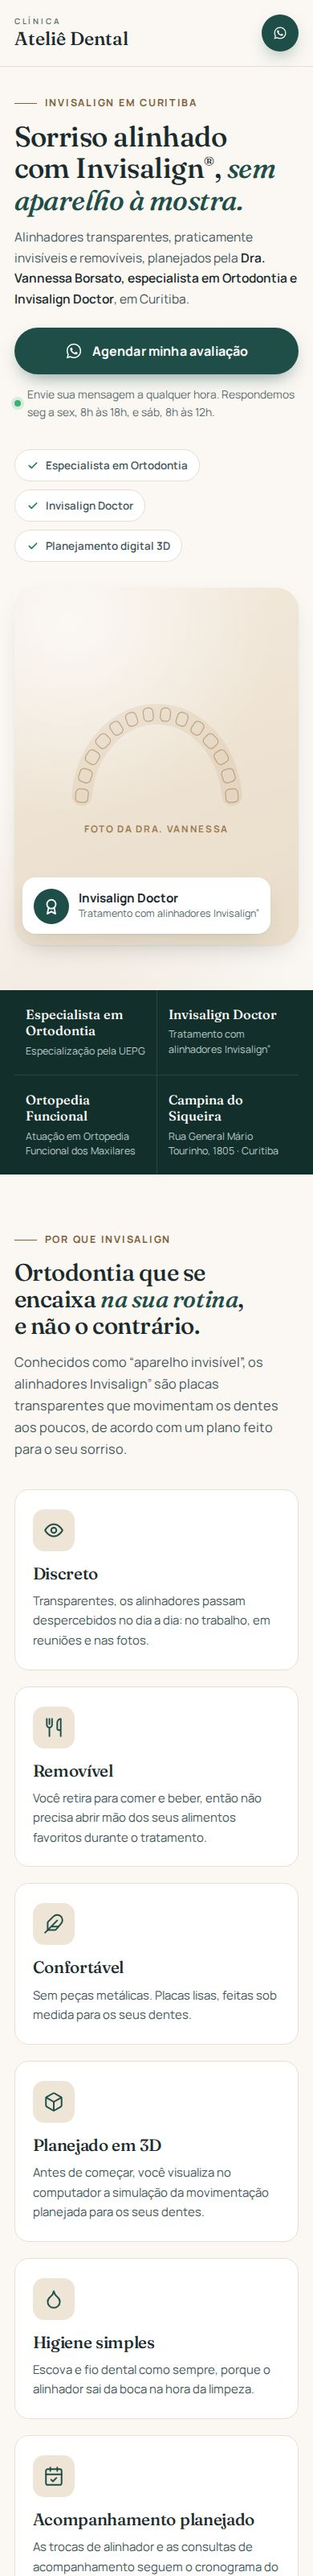
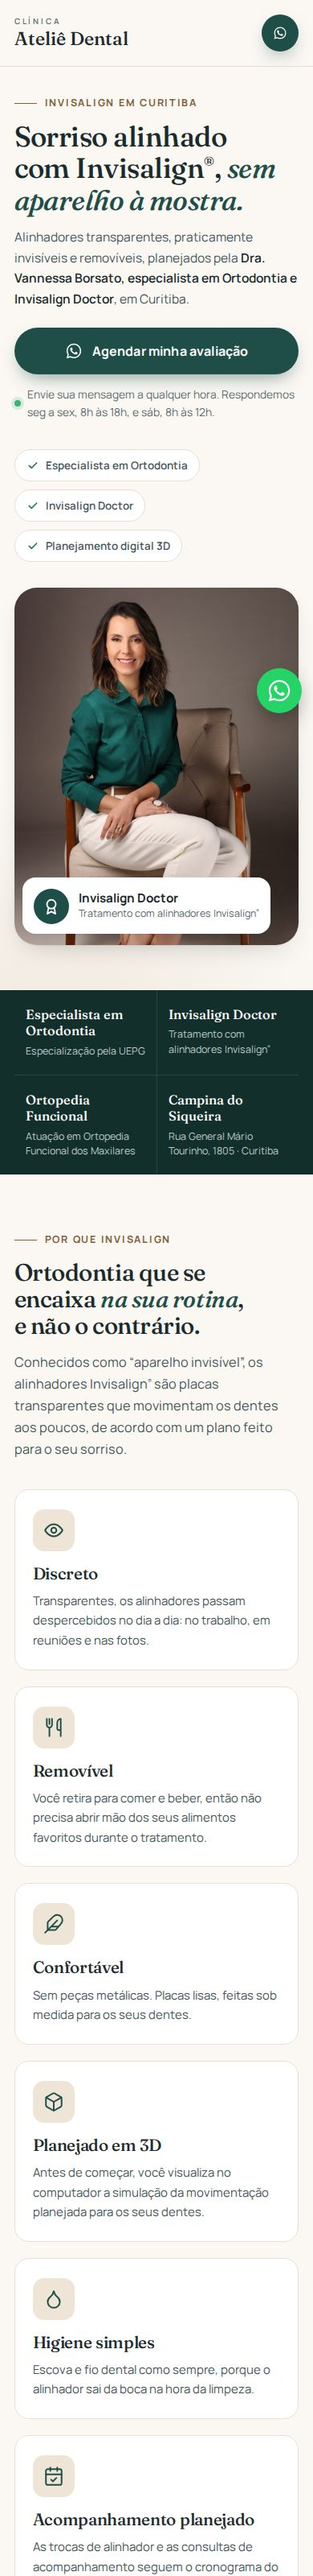
Add doctor photos, floating WhatsApp button and evaluation section
Claude-Session: https://claude.ai/code/session_01U1nEfuHnYZHZHo8qhsU69d

Changed region(s): [[0.0308, 0.2188, 0.9846, 0.375]]

diff --git a/landing-invisalign-vannessa/index.html b/landing-invisalign-vannessa/index.html
@@ -31,8 +31,10 @@ window.LP_CONFIG = {
   fotos: {
     logo: '',        // logo da clínica, PNG/SVG com fundo transparente (versão para fundo claro)
     logoRodape: '',  // logo em versão clara, para o rodapé escuro (opcional)
-    heroDra: '',     // foto principal da Dra. (vertical 4:5, ~1000x1250px)
-    sobreDra: '',    // retrato da Dra. para a seção "Quem é" (vertical 4:5)
+    // ATENÇÃO: os dois caminhos abaixo (imagens/...) servem só para a aprovação do layout.
+    // No Wix, suba os arquivos da pasta "imagens" no Gerenciador de Mídia e cole aqui a URL de cada um.
+    heroDra: 'imagens/dra-vannessa-hero.jpg',       // foto principal (vertical 4:5, 1000x1250px)
+    sobreDra: 'imagens/dra-vannessa-retrato.jpg',   // retrato para a seção "Quem é" (vertical 4:5)
     atendimento: '', // Dra. atendendo / mostrando o alinhador (horizontal 3:2)
     clinica: [       // fotos da clínica (horizontal 3:2). Apague ou acrescente linhas.
       // 'https://static.wixstatic.com/media/...jpg',
@@ -81,7 +83,13 @@ window.LP_CONFIG = {
   // ---------- AJUDA PARA O WIX ----------
   // true = mostra a altura da página no topo do elemento (use no modo Visualizar
   // para acertar a altura do Elemento HTML). Volte para false antes de publicar.
-  mostrarAltura: false
+  mostrarAltura: false,
+
+  // ---------- BOTÃO FLUTUANTE DE WHATSAPP ----------
+  // true = mostra o botão redondo no canto inferior direito da página.
+  // Dentro do Elemento HTML do Wix ele fica fixo no fim do elemento (junto ao rodapé). Para um botão que
+  // acompanha a rolagem no celular, crie também o botão nativo do Wix (LEIA-ME, seção 2, passo 7).
+  botaoFlutuante: true
 };
 </script>
 
@@ -421,6 +429,39 @@ window.LP_CONFIG = {
   .indic .inline-cta{grid-column:1/-1;margin-top:8px}
   .about .hero-ctas{margin-top:30px}
 
+  /* ---------- Botão flutuante ---------- */
+  .wa-float{
+    position:fixed;right:18px;bottom:18px;z-index:50;width:60px;height:60px;border-radius:50%;
+    background:#25D366;color:#fff;display:grid;place-items:center;box-shadow:0 10px 28px -6px rgba(0,0,0,.45);
+    transition:transform .2s;
+  }
+  .wa-float:hover{transform:scale(1.06)}
+  .wa-float svg{width:32px;height:32px}
+  .wa-float[hidden]{display:none}
+  @media (max-width:640px){.wa-float{right:14px;bottom:14px;width:56px;height:56px}}
+
+  /* ---------- Avaliação ---------- */
+  .aval-intro{display:grid;grid-template-columns:1fr 1fr;gap:clamp(28px,5vw,72px);align-items:center;margin-bottom:clamp(36px,5vw,56px)}
+  .aval-intro .section-head{margin-bottom:0}
+  .aval-quote{
+    position:relative;padding:32px 34px;border-radius:var(--radius);background:var(--brand-deep);color:#E8EFEE;
+  }
+  .aval-quote p{font-family:var(--serif);font-size:clamp(1.15rem,1.8vw,1.4rem);line-height:1.45;font-style:italic}
+  .aval-quote footer{margin-top:18px;font-size:.84rem;color:#B9CAC7;font-weight:600;letter-spacing:.02em}
+  .aval-quote::before{content:"“";position:absolute;top:-6px;left:22px;font-family:var(--serif);font-size:5rem;line-height:1;color:#D9BF97;opacity:.55}
+  .aval-list{list-style:none;margin:0;padding:0;display:grid;grid-template-columns:repeat(2,1fr);gap:16px;counter-reset:a}
+  .aval-list li{background:var(--surface);border:1px solid var(--line);border-radius:var(--radius);padding:24px 26px 24px 22px;display:grid;grid-template-columns:auto 1fr;column-gap:16px}
+  .aval-list li::before{counter-increment:a;content:counter(a);width:34px;height:34px;border-radius:50%;background:var(--accent-soft);color:var(--accent-ink);font-family:var(--serif);font-style:italic;font-size:1.05rem;display:grid;place-items:center;margin-top:2px}
+  .aval-list h3{font-size:1.14rem;margin-bottom:6px}
+  .aval-list p{font-size:.94em;color:var(--ink-soft)}
+  .aval-list li.wide{grid-column:1/-1;background:var(--accent-soft);border-color:transparent}
+  .aval-list li.wide::before{background:#fff}
+  .aval-tags{display:flex;flex-wrap:wrap;gap:8px;margin-top:12px}
+  .aval-tags span{font-size:.8rem;font-weight:600;color:var(--ink-soft);background:var(--bg-alt);border-radius:999px;padding:5px 11px}
+  .aval-list li.wide .aval-tags span{background:#fff}
+  @media (max-width:900px){.aval-intro{grid-template-columns:1fr}}
+  @media (max-width:640px){.aval-list{grid-template-columns:1fr}.aval-list li{padding:20px 18px}.aval-quote{padding:28px 22px}}
+
   /* ---------- Animação de entrada ---------- */
   .js .reveal{opacity:0;transform:translateY(18px);transition:opacity .7s ease, transform .7s ease}
   .js .reveal.in{opacity:1;transform:none}
@@ -689,7 +730,7 @@ window.LP_CONFIG = {
       <p>Um processo claro, com cada etapa explicada antes de começar.</p>
     </div>
     <ol class="steps">
-      <li class="step reveal"><h3>Avaliação</h3><p>Conversa sobre o que incomoda no seu sorriso, exame clínico e registros para entender o seu caso.</p></li>
+      <li class="step reveal"><h3>Avaliação</h3><p>Cerca de 1 hora com a Dra.: conversa, exame clínico, escaneamento intraoral, fotografias e diagnóstico do seu caso.</p></li>
       <li class="step reveal"><h3>Planejamento 3D</h3><p>A Dra. planeja o tratamento no software ClinCheck<sup>®</sup> e você vê a simulação da movimentação dos dentes.</p></li>
       <li class="step reveal"><h3>Seus alinhadores</h3><p>Você recebe seus alinhadores sob medida, usa cada um de 20 a 22 horas por dia e troca para o próximo conforme a orientação da Dra.</p></li>
       <li class="step reveal"><h3>Acompanhamento</h3><p>Consultas periódicas para conferir a evolução e fazer ajustes, se necessário.</p></li>
@@ -698,6 +739,39 @@ window.LP_CONFIG = {
     <div class="inline-cta plain reveal">
       <p>Tudo começa pela avaliação com a especialista.</p>
       <a class="btn btn-primary" data-wa="como-funciona" href="https://wa.me/554130726994?text=Ol%C3%A1%20Tenho%20interesse%20em%20saber%20mais%20sobre%20Invisalign.%20*N%C3%83O%20APAGUE%20ESSA%20MENSAGEM%20VOC%C3%8A%20TEM%20PREFER%C3%8ANCIA*" target="_blank" rel="noopener">
+        <svg aria-hidden="true"><use href="#i-wa"/></svg>Agendar minha avaliação
+      </a>
+    </div>
+  </div>
+</section>
+
+<!-- ================= A AVALIAÇÃO ================= -->
+<section class="section" id="avaliacao">
+  <div class="wrap">
+    <div class="aval-intro">
+      <div class="section-head reveal">
+        <span class="eyebrow">A consulta de avaliação</span>
+        <h2>Cerca de 1 hora dedicada ao seu diagnóstico <em>e à sua clareza.</em></h2>
+        <p>A avaliação com a Dra. Vannessa foi pensada para que você não saia apenas com uma indicação de tratamento, mas entendendo o que está acontecendo com o seu sorriso e por quê.</p>
+      </div>
+      <blockquote class="aval-quote reveal" style="margin:0">
+        <p>Simplesmente dizer “seus dentes estão tortos” não é um diagnóstico. É preciso entender o que está acontecendo, quais estruturas estão envolvidas e quais limites precisamos respeitar para realizar um tratamento seguro.</p>
+        <footer>Dra. Vannessa Borsato · Especialista em Ortodontia · CRO-PR 26722</footer>
+      </blockquote>
+    </div>
+    <ol class="aval-list">
+      <li class="reveal"><div><h3>Primeiro, entender você</h3><p>Antes de olhar para os dentes, a Dra. conversa sobre a sua queixa principal, o que incomoda no seu sorriso, expectativas, hábitos, tratamentos anteriores e o que você gostaria de mudar. Muitas vezes, a queixa estética é só a parte visível de uma questão de mordida, posição dentária ou função.</p></div></li>
+      <li class="reveal"><div><h3>Avaliação clínica detalhada</h3><p>Uma análise completa, que vai além do alinhamento: a relação entre as arcadas, a mordida, a linha média, a gengiva, os desgastes, as assimetrias e como os dentes se relacionam com o rosto.</p>
+        <div class="aval-tags"><span>Mordida</span><span>Posição dos dentes</span><span>Linha média</span><span>Gengiva</span><span>Desgastes</span><span>Face e sorriso</span></div></div></li>
+      <li class="reveal"><div><h3>Escaneamento intraoral</h3><p>O escaneamento digital das arcadas gera uma reprodução precisa dos seus dentes e da sua mordida, e revela detalhes que nem sempre aparecem só ao olhar para o sorriso.</p></div></li>
+      <li class="reveal"><div><h3>Fotografias e documentação</h3><p>Registros fotográficos de diferentes ângulos para comparar proporções, exposição dentária e a relação entre dentes, gengiva e face. Quando necessário, também são avaliados exames radiográficos.</p></div></li>
+      <li class="reveal"><div><h3>Diagnóstico</h3><p>Com todas as informações reunidas, a Dra. cruza os dados clínicos, digitais, fotográficos e radiográficos para responder a uma pergunta fundamental: <strong>por que o seu sorriso chegou à condição atual?</strong></p></div></li>
+      <li class="reveal"><div><h3>Planejamento personalizado</h3><p>A partir do diagnóstico, você entende as possibilidades de tratamento para o seu caso, os objetivos que podem ser alcançados, o que precisa ser corrigido e os cuidados durante o processo. Se houver indicação de outras áreas da odontologia, a Dra. explica como integrar o tratamento com outros profissionais da equipe.</p></div></li>
+      <li class="wide reveal"><div><h3>Clareza antes de qualquer decisão</h3><p>Ninguém deveria iniciar um tratamento ortodôntico sem entender exatamente por que ele foi indicado, o que será feito e quais são os seus limites. Por isso o diagnóstico é explicado de um jeito que você realmente compreenda, com espaço para perguntar e tirar todas as dúvidas. No final, você sai sabendo o que está acontecendo, o que pode ser feito e por que aquele plano foi pensado para você.</p></div></li>
+    </ol>
+    <div class="inline-cta plain reveal">
+      <p>Quer entender o que está acontecendo com o seu sorriso?</p>
+      <a class="btn btn-primary" data-wa="avaliacao" href="https://wa.me/554130726994?text=Ol%C3%A1%20Tenho%20interesse%20em%20saber%20mais%20sobre%20Invisalign.%20*N%C3%83O%20APAGUE%20ESSA%20MENSAGEM%20VOC%C3%8A%20TEM%20PREFER%C3%8ANCIA*" target="_blank" rel="noopener">
         <svg aria-hidden="true"><use href="#i-wa"/></svg>Agendar minha avaliação
       </a>
     </div>
@@ -854,7 +928,7 @@ window.LP_CONFIG = {
       </details>
       <details name="faq">
         <summary>Como funciona a consulta de avaliação?</summary>
-        <div class="ans"><span id="faq-avaliacao">Na consulta, a Dra. Vannessa examina seus dentes e sua mordida, entende o que você quer mudar no seu sorriso, responde às suas dúvidas e explica se o Invisalign<sup>®</sup> é indicado para você.</span> Para agendar, é só <a data-wa="faq" href="https://wa.me/554130726994?text=Ol%C3%A1%20Tenho%20interesse%20em%20saber%20mais%20sobre%20Invisalign.%20*N%C3%83O%20APAGUE%20ESSA%20MENSAGEM%20VOC%C3%8A%20TEM%20PREFER%C3%8ANCIA*" target="_blank" rel="noopener">chamar a nossa equipe no WhatsApp</a>.</div>
+        <div class="ans"><span id="faq-avaliacao">A avaliação dura cerca de 1 hora. A Dra. Vannessa conversa com você sobre o que quer mudar, faz o exame clínico, o escaneamento intraoral e as fotografias, e explica o diagnóstico e as possibilidades de tratamento de um jeito que você realmente compreenda.</span> Para agendar, é só <a data-wa="faq" href="https://wa.me/554130726994?text=Ol%C3%A1%20Tenho%20interesse%20em%20saber%20mais%20sobre%20Invisalign.%20*N%C3%83O%20APAGUE%20ESSA%20MENSAGEM%20VOC%C3%8A%20TEM%20PREFER%C3%8ANCIA*" target="_blank" rel="noopener">chamar a nossa equipe no WhatsApp</a>.</div>
       </details>
       <details name="faq">
         <summary>Quanto custa o tratamento com Invisalign<sup>®</sup>?</summary>
@@ -910,6 +984,10 @@ window.LP_CONFIG = {
   </div>
 </footer>
 
+<a class="wa-float" id="wa-float" data-wa="flutuante" href="https://wa.me/554130726994?text=Ol%C3%A1%20Tenho%20interesse%20em%20saber%20mais%20sobre%20Invisalign.%20*N%C3%83O%20APAGUE%20ESSA%20MENSAGEM%20VOC%C3%8A%20TEM%20PREFER%C3%8ANCIA*" target="_blank" rel="noopener" aria-label="Falar no WhatsApp" hidden>
+  <svg aria-hidden="true"><use href="#i-wa"/></svg>
+</a>
+
 <script>
 (function () {
   'use strict';
@@ -923,7 +1001,7 @@ window.LP_CONFIG = {
       return { '&': '&amp;', '<': '&lt;', '>': '&gt;', '"': '&quot;', "'": '&#39;' }[c];
     });
   }
-  function hasUrl(u) { return typeof u === 'string' && /^https?:\/\//i.test(u.trim()); }
+  function hasUrl(u) { return typeof u === 'string' && /^(https?:\/\/|imagens\/)/i.test(u.trim()); }
   function lista(v) { return Array.isArray(v) ? v : (v ? [v] : []); }
 
   // ---------- Links do WhatsApp ----------
@@ -977,9 +1055,11 @@ window.LP_CONFIG = {
       var url = fotos[frame.getAttribute('data-foto')];
       if (!hasUrl(url)) return;
       var img = new Image();
+      var placeholder = frame.innerHTML;
       img.alt = frame.getAttribute('data-alt') || '';
       img.decoding = 'async';
       if (frame.getAttribute('data-foto') !== 'heroDra') img.loading = 'lazy';
+      img.onerror = function () { frame.innerHTML = placeholder; }; // URL errada → volta o espaço reservado
       img.src = url;
       frame.innerHTML = '';
       frame.appendChild(img);
@@ -1058,6 +1138,8 @@ window.LP_CONFIG = {
   } catch (err) {
     if (window.console) console.error('LP_CONFIG:', err);
   }
+
+  if (C.botaoFlutuante !== false) document.getElementById('wa-float').hidden = false;
 
   // ---------- Fundo alternado entre as seções visíveis ----------
   [].filter.call(document.querySelectorAll('main > .section:not(.final)'), function (sec) { return !sec.hidden; })

diff --git a/landing-invisalign-vannessa/LEIA-ME.md b/landing-invisalign-vannessa/LEIA-ME.md
@@ -17,8 +17,14 @@ Feita para ser colada no Wix como **Elemento HTML**.
 Tudo o que é editável fica no começo do `index.html`, no bloco `window.LP_CONFIG = { ... }`.
 Não é preciso mexer em mais nada.
 
-### Fotos (pendente: o Drive não pôde ser acessado daqui)
-1. No Wix, abra o **Gerenciador de Mídia** e suba as fotos.
+### Fotos
+As fotos da Dra. já estão otimizadas na pasta `imagens/` (JPG e WebP, 1000×1250 px, corte 4:5):
+- `dra-vannessa-hero.jpg` → campo `heroDra`
+- `dra-vannessa-retrato.jpg` → campo `sobreDra`
+- `dra-vannessa-quadrado.jpg` → extra, para redes sociais ou imagem de compartilhamento
+
+Hoje o `LP_CONFIG` aponta para `imagens/...` **só para a aprovação do layout**. No Wix isso não funciona:
+1. No Wix, abra o **Gerenciador de Mídia** e suba os arquivos da pasta `imagens/`.
 2. Clique na foto > **Copiar URL** (a URL começa com `https://static.wixstatic.com/media/...`).
 3. Cole a URL entre as aspas do campo certo:
 
@@ -86,19 +92,19 @@ totalAvaliacoesGoogle: '87',
 
      | Largura do elemento | Altura |
      |---|---|
-     | 280 px (mobile clássico) | ≈ 14.670 px |
-     | 320 px (mobile clássico) | ≈ 13.620 px |
-     | 390 px | ≈ 12.560 px |
-     | 768 px | ≈ 10.640 px |
-     | 980 px | ≈ 9.010 px |
-     | 1280 px | ≈ 9.220 px |
-     | 1440 px ou mais | ≈ 9.400 px |
+     | 280 px (mobile clássico) | ≈ 19.000 px |
+     | 320 px (mobile clássico) | ≈ 17.360 px |
+     | 390 px | ≈ 15.530 px |
+     | 768 px | ≈ 12.850 px |
+     | 980 px | ≈ 10.760 px |
+     | 1280 px | ≈ 10.960 px |
+     | 1440 px ou mais | ≈ 11.200 px |
 
 6. **SEO da página** (*Configurações da página > SEO*):
    - Título: `Invisalign em Curitiba | Dra. Vannessa Borsato, Ortodontista`
    - Descrição: `Alinhadores invisíveis Invisalign com especialista em Ortodontia e Invisalign Doctor. Clínica Ateliê Dental, Campina do Siqueira. Agende sua avaliação.`
    - Se não quiser que a página apareça na busca orgânica, marque "não indexar". Isso **não** atrapalha o Google Ads.
-7. **Botão flutuante de WhatsApp (recomendado para o celular)**: um botão fixo na tela não funciona dentro do Elemento HTML. Por isso, crie no próprio Wix um botão com o ícone do WhatsApp, marque *Fixar na tela* (canto inferior direito) e aponte para o mesmo link da página:
+7. **Botão flutuante de WhatsApp**: a página já traz um botão verde redondo (`botaoFlutuante: true` no `LP_CONFIG`). Dentro do Elemento HTML do Wix, porém, ele fica preso ao fim do elemento, junto ao rodapé, e não acompanha a rolagem. Para o botão seguir a tela no celular, crie também no próprio Wix um botão com o ícone do WhatsApp, marque *Fixar na tela* (canto inferior direito) e aponte para o mesmo link da página. Nesse caso, mude `botaoFlutuante` para `false` para não ficarem dois botões no fim da página:
    `https://wa.me/554130726994?text=Ol%C3%A1%20Tenho%20interesse%20em%20saber%20mais%20sobre%20Invisalign.%20*N%C3%83O%20APAGUE%20ESSA%20MENSAGEM%20VOC%C3%8A%20TEM%20PREFER%C3%8ANCIA*`
 
 ---
@@ -136,11 +142,13 @@ A página roda dentro de um iframe do Wix, em outro domínio. Uma tag do Google 
 
 ## 5. Pendências
 
-- [ ] Fotos (logo, Dra. e clínica), para subir no Wix e colar as URLs
+- [x] Fotos da Dra. (prontas em `imagens/`; falta subir no Wix e colar as URLs)
+- [ ] Logo em PNG sem fundo, da **Clínica Ateliê Dental** (a logo recebida é da Ateliê Facial)
+- [ ] Fotos da clínica (opcional)
 - [ ] Casos de antes e depois, com TCLE assinado (sem nome do paciente), e consulta ao CRO-PR sobre publicação no site da clínica
 - [ ] Depoimentos reais do Google e nota
-- [ ] Detalhes da consulta de avaliação (`textoAvaliacao`)
-- [ ] Confirmar o responsável técnico da clínica
+- [x] Detalhes da consulta de avaliação (virou a seção "A consulta de avaliação")
+- [x] Responsável técnico confirmado no CRO-PR
 - [ ] URL da política de privacidade
 - [ ] IDs do Google Ads e do GTM
 - [ ] Cores oficiais da marca: a paleta está em variáveis no início do `<style>` (`--brand`, `--accent` etc.) e pode ser trocada em um minuto
